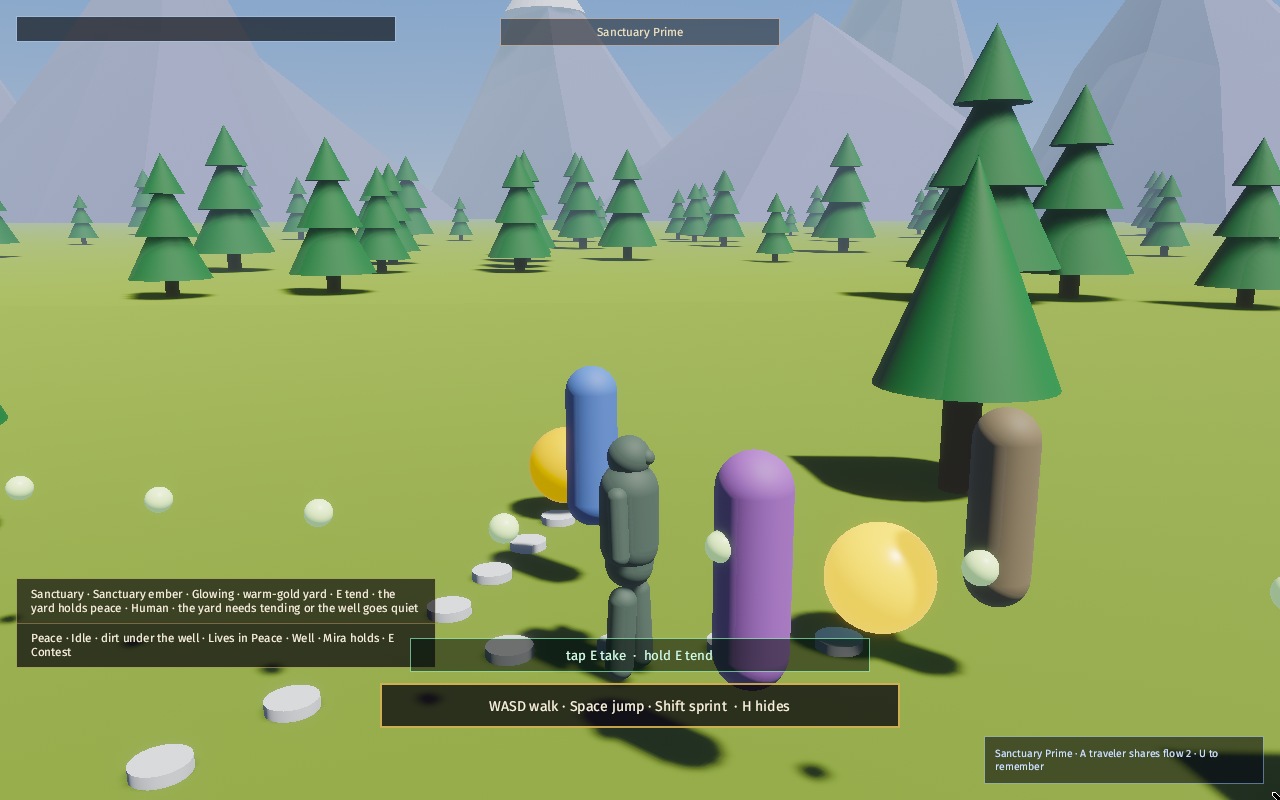
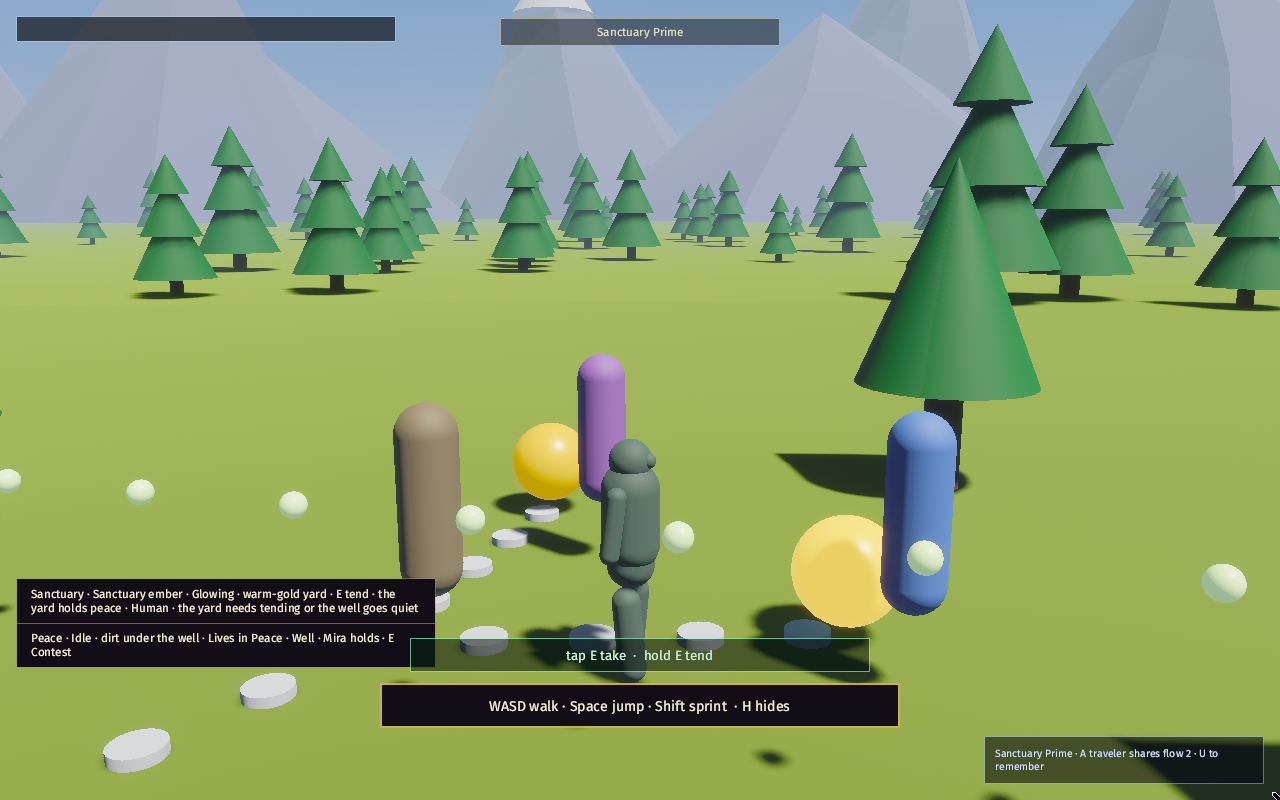
VP-HUD-GOLD-1: opaque plate fills (Core amendment)
Climate chip, well slab and guidance strip fills go to alpha 1.0 at
spawn and in both pulse syncs (bg_* offsets still add to RGB). Linear
blending over the grass lifted the near-black fills to olive. Borders
and text unchanged. Retake after stills.

diff --git a/client/src/climate_visible.rs b/client/src/climate_visible.rs
@@ -297,7 +297,7 @@ fn spawn_climate_state_slab(mut commands: Commands) {
                     border: UiRect::all(Val::Px(1.0)),
                     ..default()
                 },
-                background_color: TITLE_PLATE_BG.with_alpha(0.88).into(),
+                background_color: TITLE_PLATE_BG.with_alpha(1.0).into(),
                 border_color: TITLE_BORDER_MUTED.with_alpha(0.42).into(),
                 visibility: Visibility::Hidden,
                 ..default()
@@ -389,7 +389,7 @@ fn update_climate_state_slab(
                 TITLE_PLATE_BG.to_srgba().red + pulse.bg_r,
                 TITLE_PLATE_BG.to_srgba().green + pulse.bg_g,
                 TITLE_PLATE_BG.to_srgba().blue + pulse.bg_b,
-                0.88,
+                1.0,
             )
             .into();
         }
@@ -1570,13 +1570,13 @@ mod tests {
     }
 
     /// CARD VP-HUD-GOLD-1 — at glow 0 the climate chip rests on the title
-    /// palette: muted gold rim (alpha 0.42), plate fill (alpha 0.88), cream text.
+    /// palette: muted gold rim (alpha 0.42), opaque plate fill (alpha 1.0), cream text.
     #[test]
     fn hud_gold_climate_chip_rest_is_title_palette() {
         let mut app = hud_gold_climate_app(false, 0.0);
         let (border, bg, text) = hud_gold_climate_colors(&mut app);
         hud_gold_assert_rgb(border, TITLE_BORDER_MUTED, 0.42, "chip border");
-        hud_gold_assert_rgb(bg, TITLE_PLATE_BG, 0.88, "chip fill");
+        hud_gold_assert_rgb(bg, TITLE_PLATE_BG, 1.0, "chip fill");
         hud_gold_assert_rgb(text, TITLE_TEXT_PRIMARY, 1.0, "chip text");
     }
 
@@ -1590,7 +1590,7 @@ mod tests {
         app.update();
         let (border, bg, text) = hud_gold_climate_colors(&mut app);
         hud_gold_assert_rgb(border, TITLE_BORDER_MUTED, 0.42, "chip spawn border");
-        hud_gold_assert_rgb(bg, TITLE_PLATE_BG, 0.88, "chip spawn fill");
+        hud_gold_assert_rgb(bg, TITLE_PLATE_BG, 1.0, "chip spawn fill");
         hud_gold_assert_rgb(text, TITLE_TEXT_PRIMARY, 1.0, "chip spawn text");
         for (c, what) in [(border, "border"), (bg, "fill"), (text, "text")] {
             hud_gold_not_green(c, what);
@@ -1604,7 +1604,7 @@ mod tests {
         let mut app = hud_gold_climate_app(true, 1.0);
         let (border, bg, _) = hud_gold_climate_colors(&mut app);
         hud_gold_assert_rgb(border, TITLE_BORDER_MUTED, 0.42, "reduced border");
-        hud_gold_assert_rgb(bg, TITLE_PLATE_BG, 0.88, "reduced fill");
+        hud_gold_assert_rgb(bg, TITLE_PLATE_BG, 1.0, "reduced fill");
 
         let mut app = hud_gold_climate_app(false, 1.0);
         let (border, _, _) = hud_gold_climate_colors(&mut app);
@@ -1616,5 +1616,26 @@ mod tests {
         assert!((b - (rest.blue + p.b)).abs() < 1e-6);
         assert!((a - (0.42 + p.a)).abs() < 1e-6);
         hud_gold_not_green(border, "lifted chip border");
+    }
+
+    /// CARD VP-HUD-GOLD-1 (amended) — the climate chip fill is opaque: alpha
+    /// is exactly 1.0 at spawn and after a pulse sync (rest, breath, reduced motion).
+    #[test]
+    fn hud_gold_climate_chip_fill_alpha_is_opaque() {
+        let mut app = App::new();
+        app.add_plugins(bevy::MinimalPlugins)
+            .add_systems(Startup, spawn_climate_state_slab);
+        app.update();
+        let (_, bg, _) = hud_gold_climate_colors(&mut app);
+        assert_eq!(bg.to_srgba().alpha, 1.0, "spawn fill alpha");
+        for (reduced, glow) in [(false, 0.0), (false, 0.5), (false, 1.0), (true, 1.0)] {
+            let mut app = hud_gold_climate_app(reduced, glow);
+            let (_, bg, _) = hud_gold_climate_colors(&mut app);
+            assert_eq!(
+                bg.to_srgba().alpha,
+                1.0,
+                "synced fill alpha (reduced {reduced}, glow {glow})"
+            );
+        }
     }
 }

diff --git a/client/src/skirmish_well.rs b/client/src/skirmish_well.rs
@@ -111,7 +111,7 @@ fn spawn_well_slab(mut commands: Commands) {
                     border: UiRect::all(Val::Px(1.0)),
                     ..default()
                 },
-                background_color: TITLE_PLATE_BG.with_alpha(0.92).into(),
+                background_color: TITLE_PLATE_BG.with_alpha(1.0).into(),
                 border_color: TITLE_BORDER_MUTED.with_alpha(0.50).into(),
                 visibility: Visibility::Hidden,
                 ..default()
@@ -267,7 +267,7 @@ fn update_well_slab(
                 TITLE_PLATE_BG.to_srgba().red + pulse.bg_r,
                 TITLE_PLATE_BG.to_srgba().green + pulse.bg_g,
                 TITLE_PLATE_BG.to_srgba().blue + pulse.bg_b,
-                0.92,
+                1.0,
             )
             .into();
         }
@@ -457,14 +457,14 @@ mod tests {
     }
 
     /// CARD VP-HUD-GOLD-1 — at glow 0 the well slab rests on the title
-    /// palette: muted gold rim (alpha 0.50), plate fill (alpha 0.92), cream text.
+    /// palette: muted gold rim (alpha 0.50), opaque plate fill (alpha 1.0), cream text.
     #[test]
     fn hud_gold_well_slab_rest_is_title_palette() {
         let mut app = hud_gold_well_app(0.0);
         let (border, bg, text, vis) = hud_gold_well_colors(&mut app);
         assert_eq!(vis, Visibility::Visible);
         hud_gold_assert_rgb(border, TITLE_BORDER_MUTED, 0.50, "well border");
-        hud_gold_assert_rgb(bg, TITLE_PLATE_BG, 0.92, "well fill");
+        hud_gold_assert_rgb(bg, TITLE_PLATE_BG, 1.0, "well fill");
         hud_gold_assert_rgb(text, TITLE_TEXT_PRIMARY, 1.0, "well text");
     }
 
@@ -478,7 +478,7 @@ mod tests {
         app.update();
         let (border, bg, text, _) = hud_gold_well_colors(&mut app);
         hud_gold_assert_rgb(border, TITLE_BORDER_MUTED, 0.50, "well spawn border");
-        hud_gold_assert_rgb(bg, TITLE_PLATE_BG, 0.92, "well spawn fill");
+        hud_gold_assert_rgb(bg, TITLE_PLATE_BG, 1.0, "well spawn fill");
         hud_gold_assert_rgb(text, TITLE_TEXT_PRIMARY, 1.0, "well spawn text");
         for (c, what) in [(border, "border"), (bg, "fill"), (text, "text")] {
             hud_gold_not_green(c, what);
@@ -503,7 +503,25 @@ mod tests {
         assert!((br - (fill.red + p.bg_r)).abs() < 1e-6);
         assert!((bgg - (fill.green + p.bg_g)).abs() < 1e-6);
         assert!((bb - (fill.blue + p.bg_b)).abs() < 1e-6);
-        assert!((ba - 0.92).abs() < 1e-6);
+        assert_eq!(ba, 1.0);
         hud_gold_not_green(border, "lifted border");
+    }
+
+    /// CARD VP-HUD-GOLD-1 (amended) — the well slab fill is opaque: alpha is
+    /// exactly 1.0 at spawn and after a pulse sync at rest and at full breath.
+    #[test]
+    fn hud_gold_well_slab_fill_alpha_is_opaque() {
+        let mut app = App::new();
+        app.add_plugins(bevy::MinimalPlugins)
+            .add_systems(Startup, spawn_well_slab);
+        app.update();
+        let (_, bg, _, _) = hud_gold_well_colors(&mut app);
+        assert_eq!(bg.to_srgba().alpha, 1.0, "spawn fill alpha");
+        for glow in [0.0, 0.5, 1.0] {
+            let mut app = hud_gold_well_app(glow);
+            let (_, bg, _, vis) = hud_gold_well_colors(&mut app);
+            assert_eq!(vis, Visibility::Visible);
+            assert_eq!(bg.to_srgba().alpha, 1.0, "synced fill alpha at glow {glow}");
+        }
     }
 }

diff --git a/client/src/first_session_guidance.rs b/client/src/first_session_guidance.rs
@@ -783,7 +783,7 @@ fn spawn_guidance_strip(mut commands: Commands) {
                     border: UiRect::all(Val::Px(2.0)),
                     ..default()
                 },
-                background_color: TITLE_PLATE_BG.with_alpha(0.94).into(),
+                background_color: TITLE_PLATE_BG.with_alpha(1.0).into(),
                 border_color: TITLE_BORDER.with_alpha(0.82).into(),
                 visibility: Visibility::Visible,
                 ..default()
@@ -2557,7 +2557,7 @@ mod tests {
     }
 
     /// CARD VP-HUD-GOLD-1 — the guidance strip spawns on the title palette:
-    /// gold rim (TITLE_BORDER, alpha 0.82), plate fill (alpha 0.94), cream
+    /// gold rim (TITLE_BORDER, alpha 0.82), opaque plate fill (alpha 1.0), cream
     /// text; no base colour reads green. The strip has no pulse, so rest is spawn.
     #[test]
     fn hud_gold_guidance_strip_is_title_palette() {
@@ -2587,7 +2587,7 @@ mod tests {
 
         for (c, want, alpha, what) in [
             (border, TITLE_BORDER, 0.82, "strip border"),
-            (bg, TITLE_PLATE_BG, 0.94, "strip fill"),
+            (bg, TITLE_PLATE_BG, 1.0, "strip fill"),
             (text, TITLE_TEXT_PRIMARY, 1.0, "strip text"),
         ] {
             let s = c.to_srgba();
@@ -2604,5 +2604,40 @@ mod tests {
                 s.blue
             );
         }
+    }
+
+    /// CARD VP-HUD-GOLD-1 (amended) — the guidance strip fill is opaque:
+    /// alpha exactly 1.0 at spawn and after its update systems run. The strip
+    /// has no pulse sync; its per-frame text/visibility systems leave the fill.
+    #[test]
+    fn hud_gold_guidance_strip_fill_alpha_is_opaque() {
+        use bevy::MinimalPlugins;
+        use shared::local_settings::LocalSettings;
+
+        fn fill_alpha(app: &mut App) -> f32 {
+            let mut q = app
+                .world_mut()
+                .query_filtered::<&BackgroundColor, With<FirstSessionGuidanceStrip>>();
+            q.single(app.world()).0.to_srgba().alpha
+        }
+
+        let mut app = App::new();
+        app.add_plugins(MinimalPlugins)
+            .add_systems(Startup, spawn_guidance_strip);
+        app.update();
+        assert_eq!(fill_alpha(&mut app), 1.0, "spawn fill alpha");
+
+        let mut app = App::new();
+        app.add_plugins(MinimalPlugins)
+            .init_resource::<FirstSessionGuidance>()
+            .insert_resource(LocalSettingsState {
+                inner: LocalSettings::peace_defaults(),
+                dirty: false,
+            })
+            .add_systems(Startup, spawn_guidance_strip)
+            .add_systems(Update, update_guidance_text);
+        app.update();
+        app.update();
+        assert_eq!(fill_alpha(&mut app), 1.0, "updated fill alpha");
     }
 }
